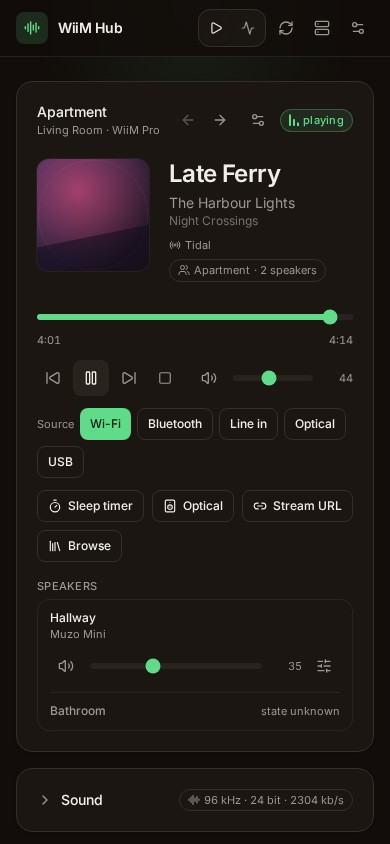
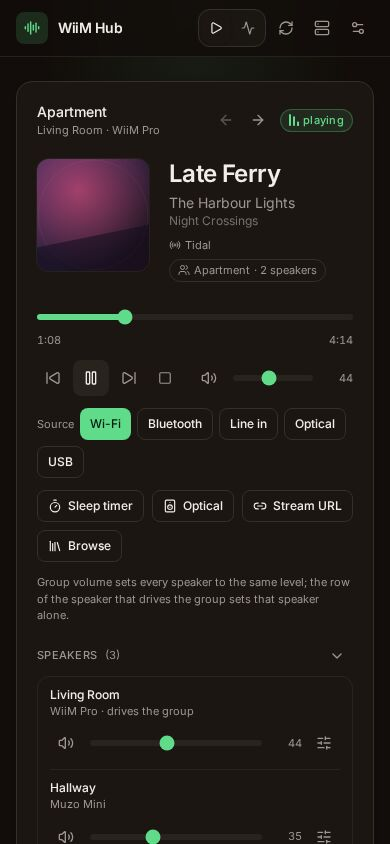
docs: show the speaker sheet where the group card used to repeat it
The captures come from the demo again: the group with its rows, the sheet of
the speaker that drives it in place of the former card-wide sound card, and one
diagnostic card open beside the folded ones.

diff --git a/docs/guide/demo.md b/docs/guide/demo.md
@@ -13,17 +13,21 @@ npm run demo         # http://localhost:8090, PORT=8091 to move it
 
 Three players, on documentation addresses (`192.0.2.21`, `.22` and `.23`):
 
-| Device  | State                                                                             |
-| ------- | --------------------------------------------------------------------------------- |
-| Living  | playing, with a generated cover, a running group it drives, and a full sound card |
-| Bedroom | offline, three failed polls, with a group it remembers but does not run           |
-| Hallway | online, member of the running group, answering nothing about its own playback     |
+| Device  | State                                                                         |
+| ------- | ----------------------------------------------------------------------------- |
+| Living  | playing, with a generated cover, and a running group it drives                |
+| Bedroom | offline, three failed polls, with a group it remembers but does not run       |
+| Hallway | online, member of the running group, answering nothing about its own playback |
 
 The running group is the shape the page draws as one card: Living Room drives it, Hallway renders
 it, and Bathroom is a member the master names with no address, which the card shows with an unknown
 state. All three report a deterministic signal history, so the sparkline has a shape rather than
 noise, and the offline card carries the findings a real one would: a device that does not answer,
 and a group that is saved without running.
+
+Living Room drives a group, so its equalizer and its settings open from its own row, one gesture
+under the room's name; the card above keeps the player. Bedroom drives nothing and keeps the sound
+card under its player, which the capture below shows on the right.
 
 What is **not** faked is the path a write takes. The demo goes through the same action parser and
 the same command builder as the hub: the volume ceiling, the available inputs and outputs and the

diff --git a/docs/index.md b/docs/index.md
@@ -52,14 +52,14 @@ behaviour was measured on a real player it is recorded in the
 
 ## What it looks like
 
-Two readings of the same data: the sound card, with a per-source equalizer, and the diagnostic
-view, which turns the device's own counters into short facts. Both fit a phone, where the cards
-stack one per screen and nothing needs a zoom. A running group is one card there too, with its
-speakers as rows.
+Two readings of the same data: the sheet of one speaker, with its volume, its equalizer and its
+settings, and the diagnostic view, which turns the device's own counters into short facts. Both fit
+a phone, where the cards stack one per screen and nothing needs a zoom. A running group is one card
+there too, with its speakers as rows.
 
-|                                                                           |                                        |
-| ------------------------------------------------------------------------- | -------------------------------------- |
-| ![Sound card](img/sound.jpeg)<br>![Diagnostic view](img/diagnostics.jpeg) | ![A group on a phone](img/mobile.jpeg) |
+|                                                                              |                                        |
+| ---------------------------------------------------------------------------- | -------------------------------------- |
+| ![Speaker sheet](img/sound.jpeg)<br>![Diagnostic view](img/diagnostics.jpeg) | ![A group on a phone](img/mobile.jpeg) |
 
 ## Where to go next
 

diff --git a/docs/guide/devices.md b/docs/guide/devices.md
@@ -112,7 +112,10 @@ exported report still say what the device itself answered.
 The transport is not offered on a member. A command sent to a member drives its own silent input,
 not the group, and the hub does not write to another speaker on your behalf. Volume stays: it is the
 member's own, and the master reports it in its slave list. A button on the row opens that speaker's
-own sheet, with its volume, its equalizer and its settings, which is what its card used to carry.
+own sheet, with its volume, its equalizer and its settings, which is what its card used to carry. The
+master's row opens the same sheet, so the group card carries no sound card of its own: the equalizer
+of the speaker that drives the group would otherwise sit twice on the same page, one gesture apart. A
+speaker that drives no group keeps the sound card under its player, where it is the only way in.
 
 A group is folded only when it currently runs: a saved group that is not running, and a group whose
 master stopped answering, leave the speakers on their own cards, since nothing confirms that the

diff --git a/README.md b/README.md
@@ -31,9 +31,9 @@ history, event log, and findings that quote the number they come from. A card fo
 in the diagnostic view, and the arrows in a now playing header set an order the page keeps per
 browser, so the speaker you care about stays first.
 
-|                                    |                                               |
-| ---------------------------------- | --------------------------------------------- |
-| ![Sound card](docs/img/sound.jpeg) | ![Diagnostic view](docs/img/diagnostics.jpeg) |
+|                                       |                                               |
+| ------------------------------------- | --------------------------------------------- |
+| ![Speaker sheet](docs/img/sound.jpeg) | ![Diagnostic view](docs/img/diagnostics.jpeg) |
 
 <p align="center"><img src="docs/img/mobile.jpeg" width="300" alt="Now playing on a phone"></p>
 
